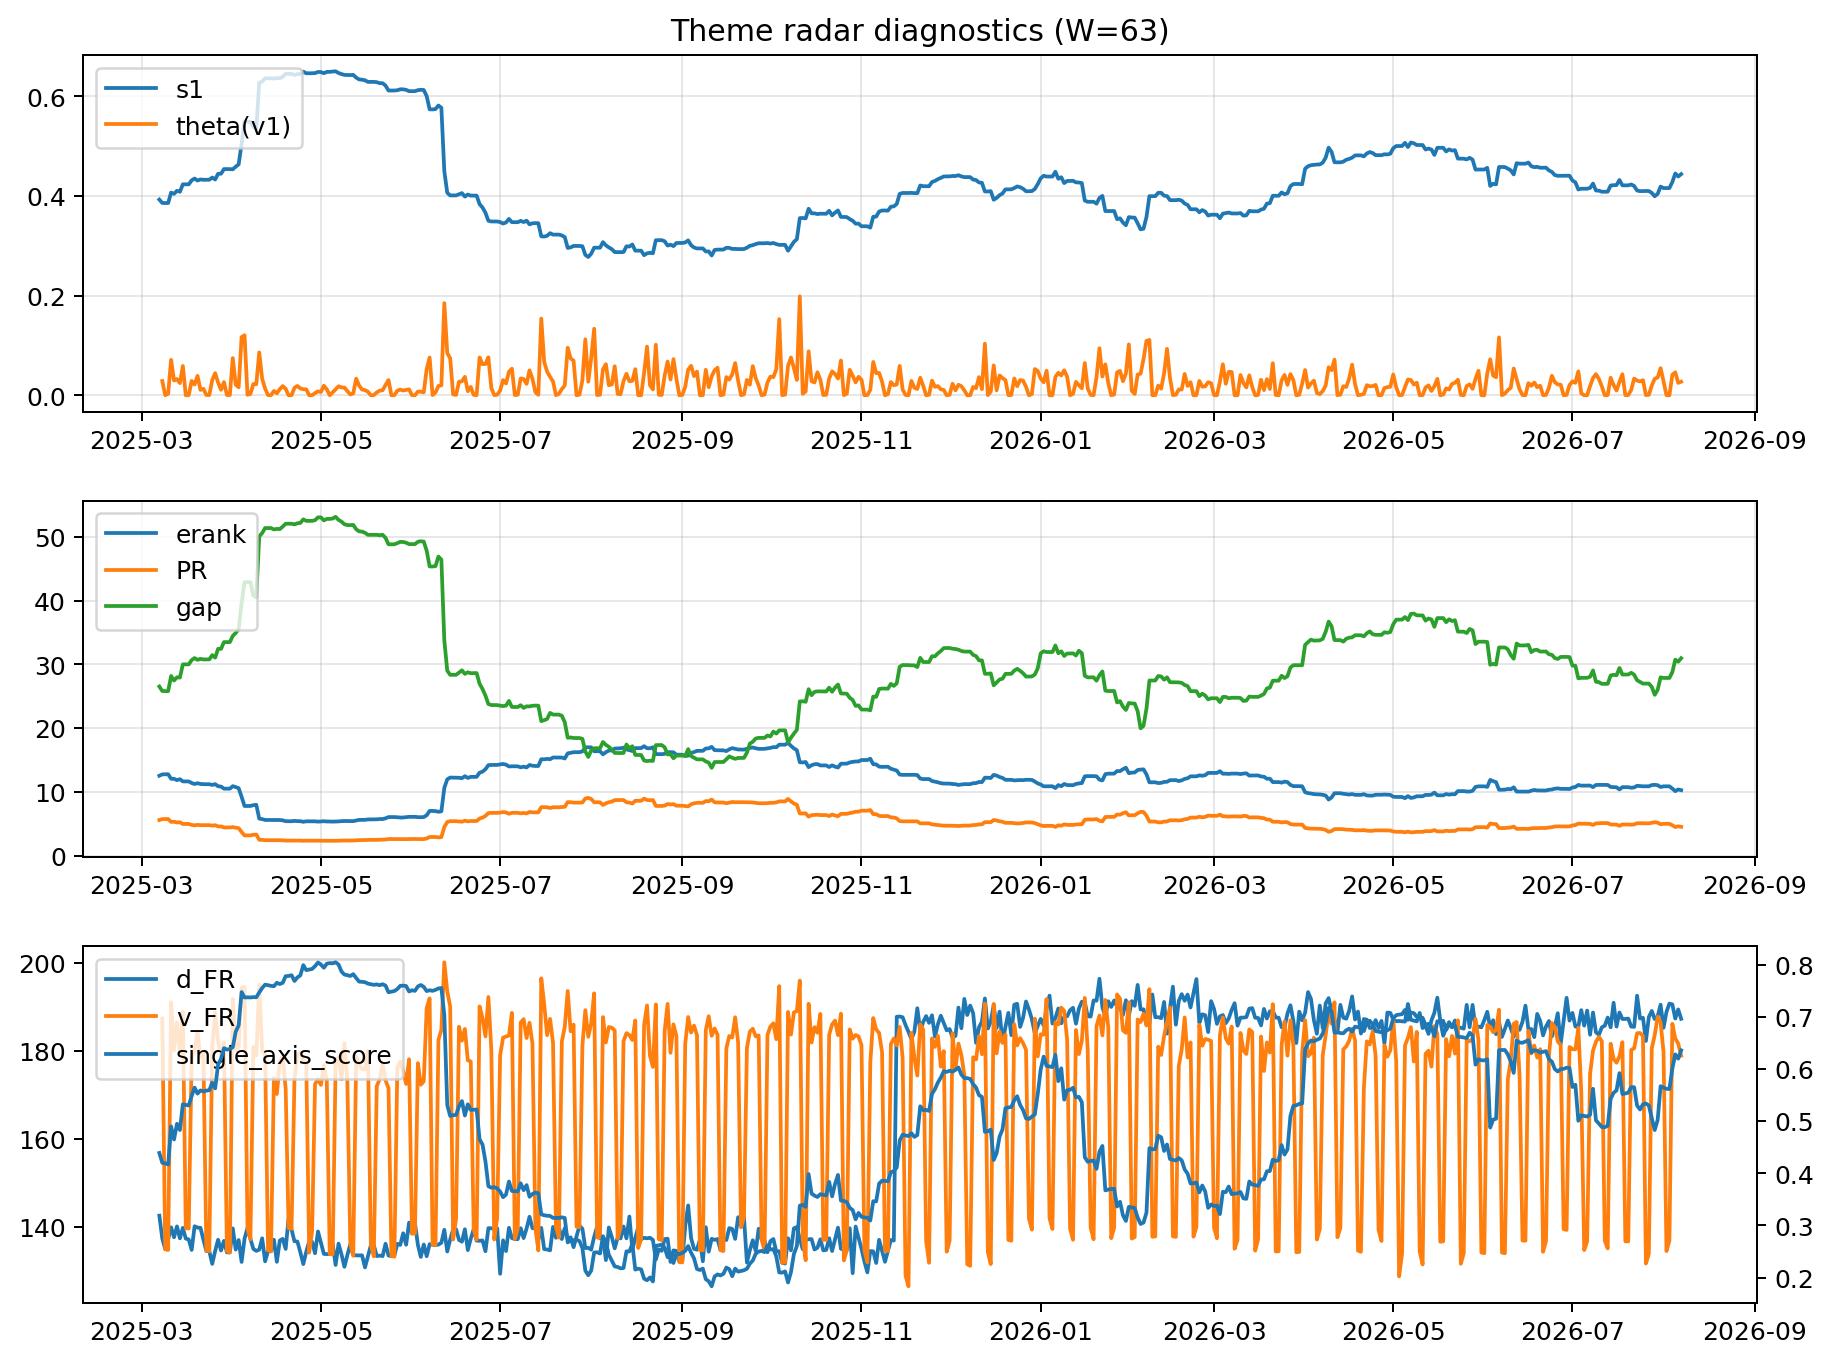
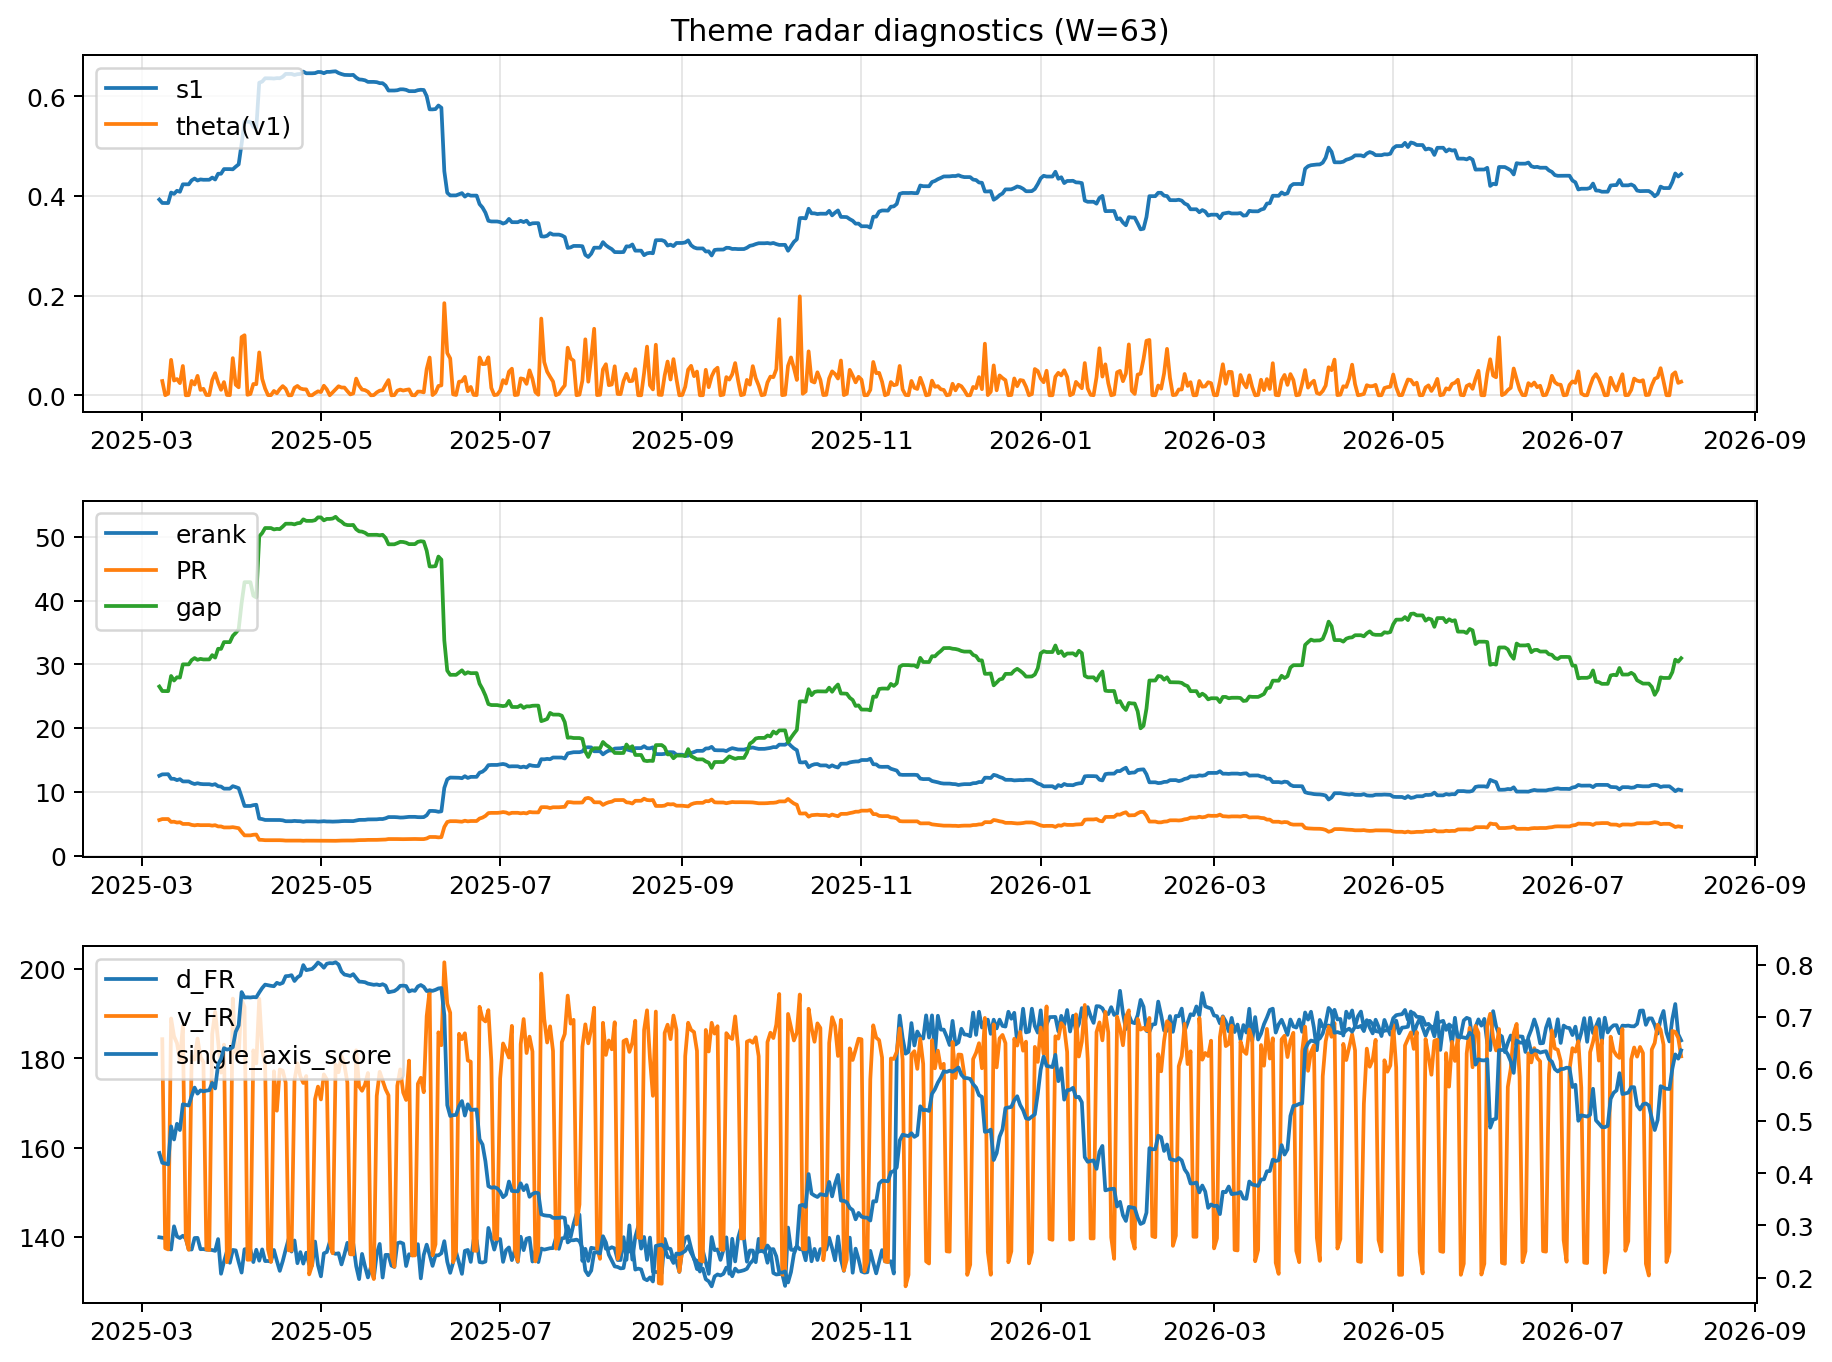
log: 2026-08-07 | sha256:2f7fa6415c126a5c76164a84fb98270af192071b1de7569ae44759c51d032d01

diff --git a/logs/2026-08-07.md b/logs/2026-08-07.md
@@ -3,43 +3,43 @@
 ![diagnostic W63](../assets/diagnostic/2026-08-07_W63.png)
 
 ## Leaders (v1) — W=63
-- **Nuclear_Uranium** (0.0864418650490732)
-- Semis (0.0702330986446842)
-- Quantum (0.0568157494961201)
+- **Nuclear_Uranium** (0.086441864485268)
+- Semis (0.0702331033449151)
+- Quantum (0.0568157465227726)
 
 ## Challengers — W=63
-**v2:** Rates (0.0882144442226757), Semis (0.08208637371427), Software_Cloud (0.0724306772834684)
-**v3:** Software_Cloud (0.078797091356567), DataCenter_Infra (0.0775916080329456), Space (0.0654974521297429)
+**v2:** Rates (0.0882139039010394), Semis (0.0820864245251293), Software_Cloud (0.0724307182160708)
+**v3:** Software_Cloud (0.0787970597344418), DataCenter_Infra (0.0775915066487381), Space (0.0654974523092575)
 
 ## Migration (20D slope) — W=63
 **Top risers:**
-- axis_Quantum: 0.0004793032211725
-- axis_Crypto: 0.0002661753416393
-- axis_Space: 0.0002603120488491
-- axis_Cyber: 0.000195918400007
-- axis_Semis: 0.0001639478740138
-- axis_Nuclear_Uranium: 0.0001544838958819
-- axis_Drones_Autonomy: 0.000132775705164
-- axis_Sector_RealEstate: 0.0001269972566095
-- axis_Software_Cloud: 9.50363311573917e-05
-- axis_Genomics_Bio: 7.800791348450532e-05
+- axis_Quantum: 0.0004793027760806
+- axis_Crypto: 0.0002661749904105
+- axis_Space: 0.0002603120794478
+- axis_Cyber: 0.0001959182142942
+- axis_Semis: 0.0001639465149076
+- axis_Nuclear_Uranium: 0.0001544832949259
+- axis_Drones_Autonomy: 0.0001327759777701
+- axis_Sector_RealEstate: 0.0001269968859811
+- axis_Software_Cloud: 9.503603308636666e-05
+- axis_Genomics_Bio: 7.800785624079157e-05
 
 **Top fallers:**
-- axis_Miners: -9.902089651905196e-05
-- axis_Critical_Minerals: -0.0001015123684844
-- axis_USD: -0.0001138201984004
-- axis_Sector_Energy: -0.0001281889807822
-- axis_Sector_ConsDisc: -0.000131917691399
-- axis_Metals: -0.0001326137886896
-- axis_Credit: -0.0001605812110158
-- axis_Sector_Comm: -0.0001685959710124
-- axis_Sector_Materials: -0.0001803053918608
-- axis_Rates: -0.00066141520462
+- axis_Miners: -9.902108356379526e-05
+- axis_Critical_Minerals: -0.000101512703848
+- axis_USD: -0.0001138201942355
+- axis_Sector_Energy: -0.0001281890086418
+- axis_Sector_ConsDisc: -0.0001319177634148
+- axis_Metals: -0.0001326142752394
+- axis_Credit: -0.0001605810940724
+- axis_Sector_Comm: -0.0001685959139431
+- axis_Sector_Materials: -0.0001803054490506
+- axis_Rates: -0.0006614064498871
 
 ## Risk line (W=63)
-- s1: 0.4436920196515809
-- theta_v1: 0.0272493295498876
-- v_FR: 178.88038436008344
+- s1: 0.443692034719582
+- theta_v1: 0.0272493114600923
+- v_FR: 180.42636728045304
 - single_axis_score: 0.6354527938342966
 
 ## Interpretation
@@ -48,7 +48,7 @@
 - Action: Tomorrow watchlist: Quantum, Crypto, Space, Cyber, Semis + v2_top1=Rates
 - Action: Hedge note: normal correlation stability.
 
-- Percentiles (W=63 history): vfr_pct=0.42, theta_pct=0.62, s1_pct=0.69, score_pct=0.72.
+- Percentiles (W=63 history): vfr_pct=0.49, theta_pct=0.62, s1_pct=0.69, score_pct=0.72.
 
 ---
[2 lines of base64/hex data omitted]
